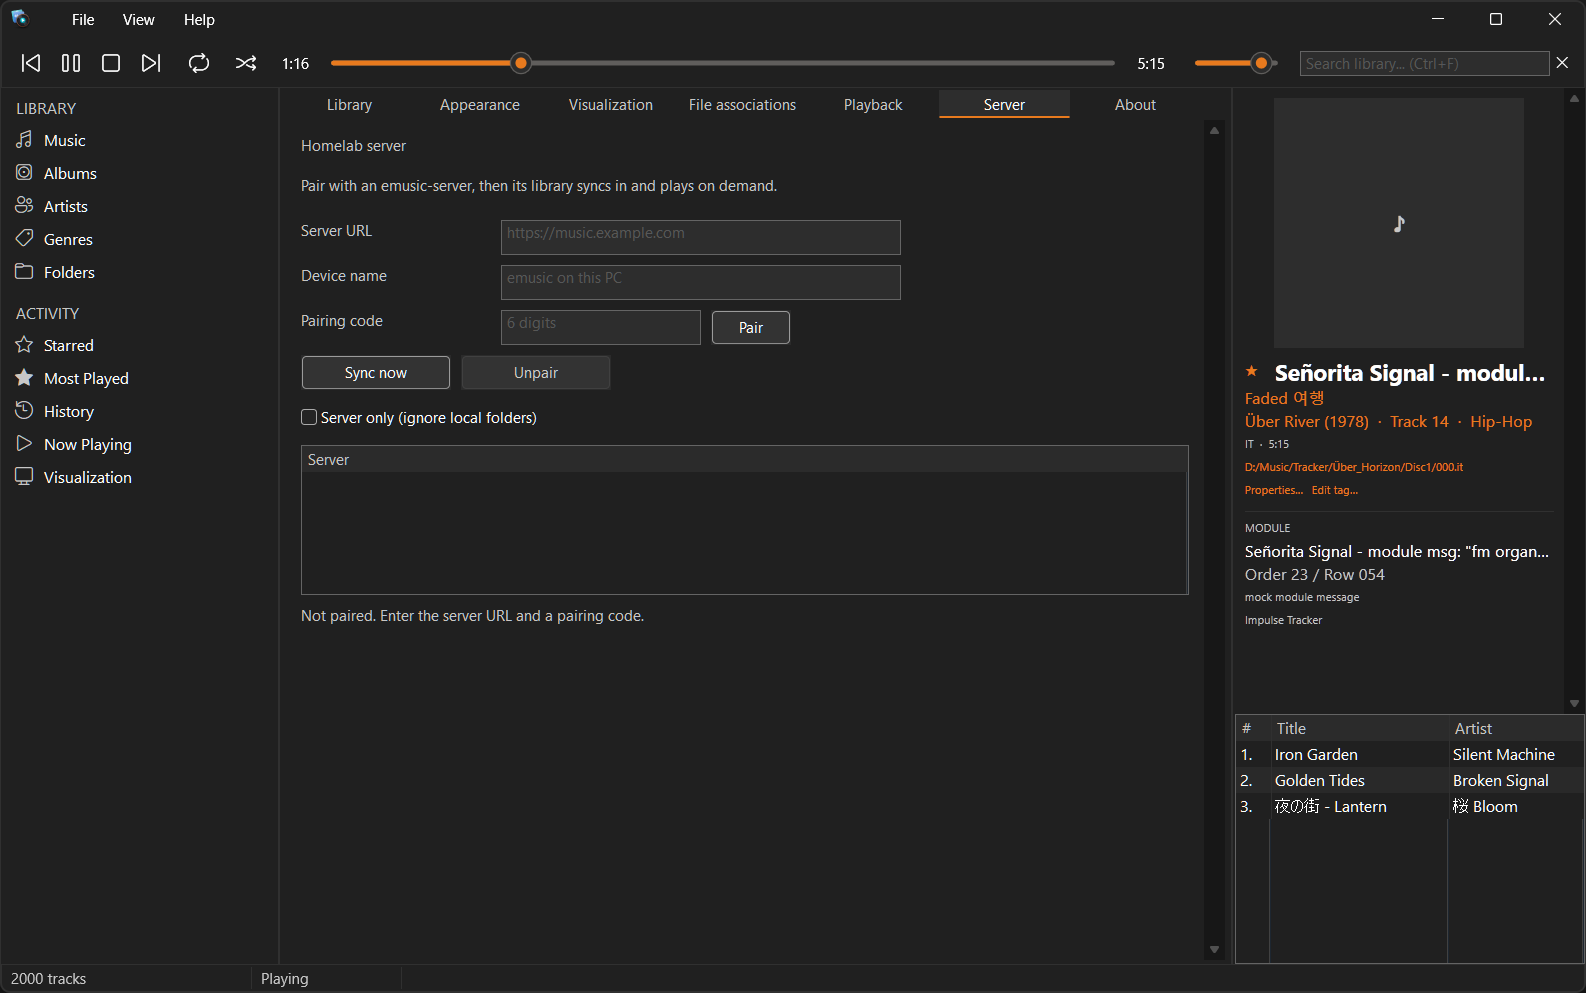
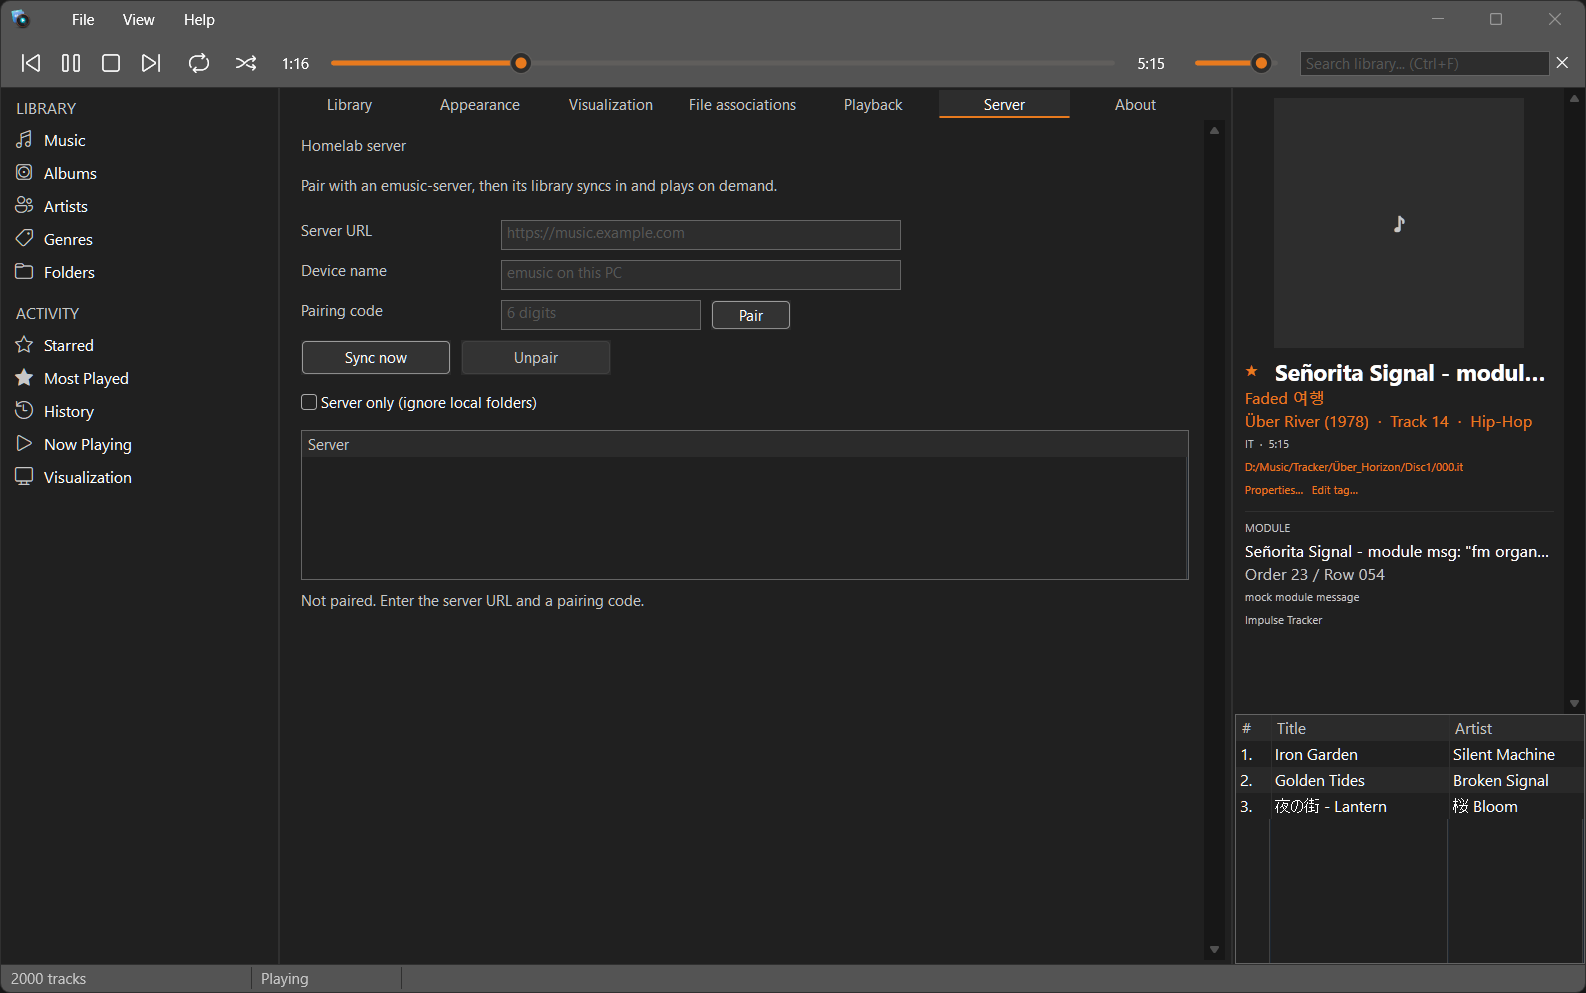
Client: size the Server text fields to one line (#391)

diff --git a/crates/app/src/views/settings/server.rs b/crates/app/src/views/settings/server.rs
@@ -15,7 +15,7 @@ use win32ui::{Button, CheckBox, Edit, Fill, ListView, Proxy, dip};
 
 use crate::app::Msg;
 
-use super::{FormRow, HEADING_HEIGHT, ROW_HEIGHT, ScrollPanel, SettingsMsg, labelled};
+use super::{FormRow, HEADING_HEIGHT, LABEL_WIDTH, ROW_HEIGHT, ScrollPanel, SettingsMsg};
 
 /// Height of the configured-server list, in design units.
 const LIST_HEIGHT: f32 = 120.0;
@@ -23,6 +23,9 @@ const LIST_HEIGHT: f32 = 120.0;
 const ACTION_WIDTH: f32 = 120.0;
 /// Width of the URL and name fields, in design units.
 const FIELD_WIDTH: f32 = 320.0;
+/// Height of a text field: one line of text (the default edit height is
+/// taller than a row, which stretched the fields).
+const FIELD_HEIGHT: f32 = 24.0;
 
 /// The list model: one display line per configured server.
 struct ServerModel {
@@ -127,12 +130,29 @@ impl ServerPage {
 
     /// The page's controls as form rows, in display order.
     fn rows(&self) -> Vec<FormRow> {
-        let mut url_row = Layout::row().spacing(dip(8.0));
-        url_row = url_row.item(self.url.width(dip(FIELD_WIDTH)));
-        let mut name_row = Layout::row().spacing(dip(8.0));
-        name_row = name_row.item(self.name.width(dip(FIELD_WIDTH)));
-        let mut code_row = Layout::row().spacing(dip(8.0));
-        code_row = code_row.item(self.code.width(dip(160.0))).item(&self.pair);
+        let field = |label: &Label, control: LayoutItem| -> FormRow {
+            (
+                row![
+                    label.width(dip(LABEL_WIDTH)),
+                    Layout::row()
+                        .spacing(dip(8.0))
+                        .item(control)
+                        .height(dip(FIELD_HEIGHT))
+                ]
+                .height(dip(FIELD_HEIGHT)),
+                FIELD_HEIGHT,
+            )
+        };
+        let url_row = field(&self.url_label, self.url.width(dip(FIELD_WIDTH)));
+        let name_row = field(&self.name_label, self.name.width(dip(FIELD_WIDTH)));
+        let code_row = field(
+            &self.code_label,
+            Layout::row()
+                .spacing(dip(8.0))
+                .item(self.code.width(dip(160.0)))
+                .item(&self.pair)
+                .into_layout_item(),
+        );
         let mut actions = Layout::row().spacing(dip(8.0));
         for button in [&self.sync, &self.unpair] {
             actions = actions.item(button.width(dip(ACTION_WIDTH)));
@@ -140,18 +160,9 @@ impl ServerPage {
         vec![
             (self.heading.height(dip(HEADING_HEIGHT)), HEADING_HEIGHT),
             (self.hint.height(dip(ROW_HEIGHT)), ROW_HEIGHT),
-            (
-                labelled(&self.url_label, url_row.height(dip(ROW_HEIGHT))),
-                ROW_HEIGHT,
-            ),
-            (
-                labelled(&self.name_label, name_row.height(dip(ROW_HEIGHT))),
-                ROW_HEIGHT,
-            ),
-            (
-                labelled(&self.code_label, code_row.height(dip(ROW_HEIGHT))),
-                ROW_HEIGHT,
-            ),
+            url_row,
+            name_row,
+            code_row,
             (actions.height(dip(ROW_HEIGHT)), ROW_HEIGHT),
             (self.only.height(dip(ROW_HEIGHT)), ROW_HEIGHT),
             (self.list.height(dip(LIST_HEIGHT)), LIST_HEIGHT),
